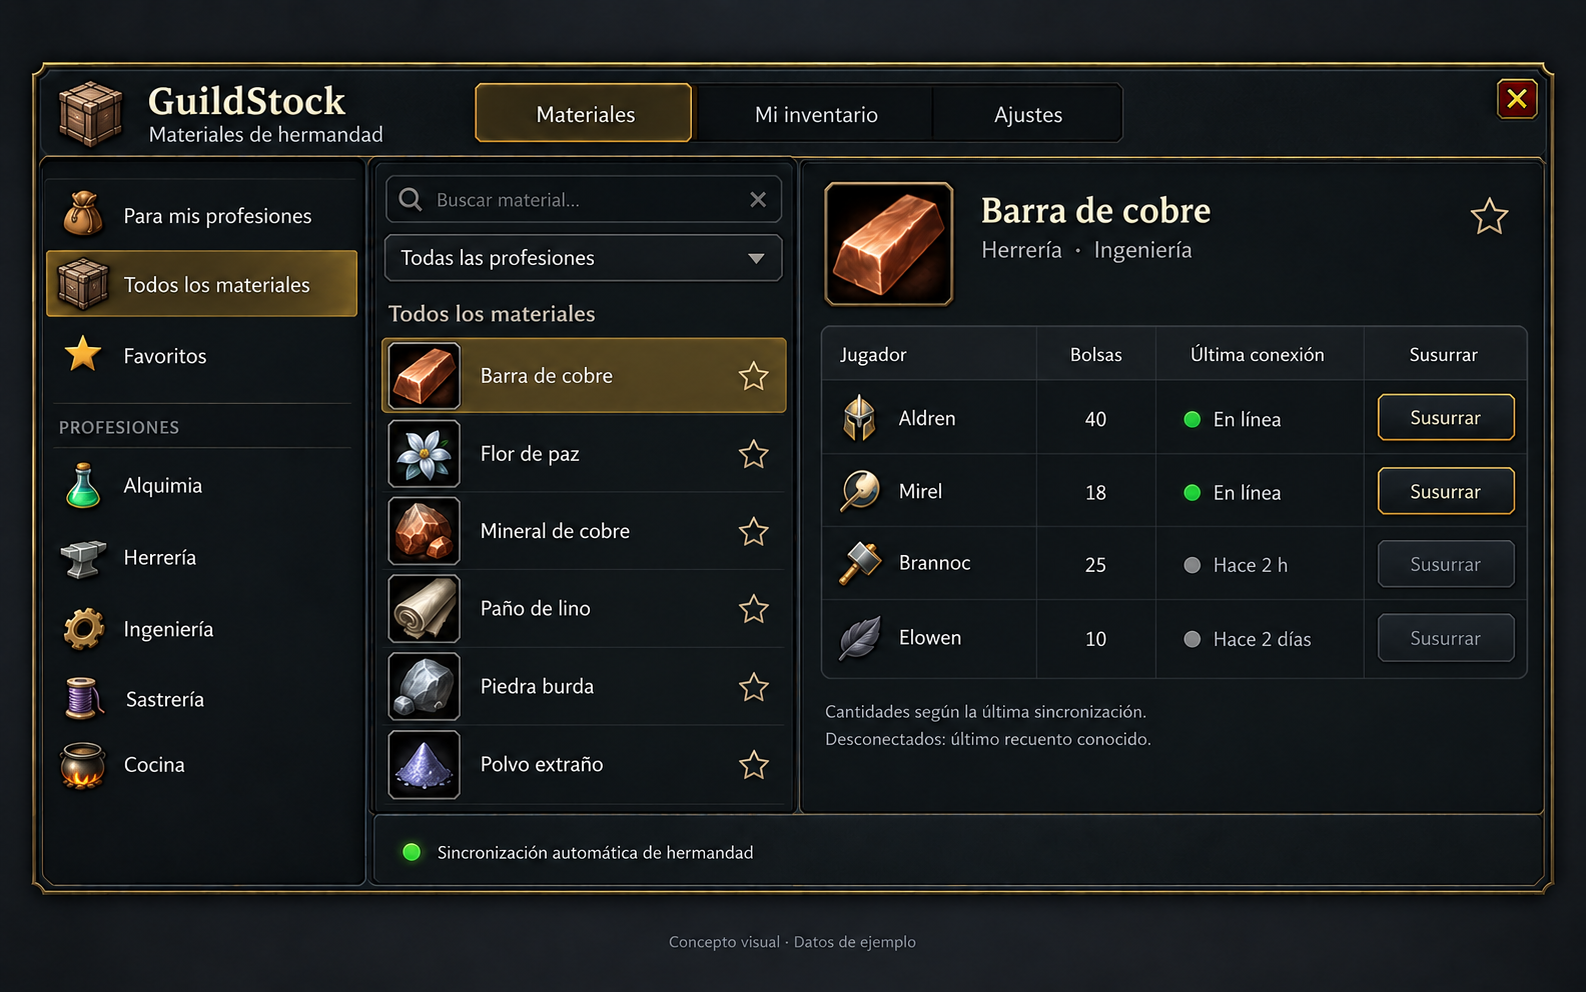
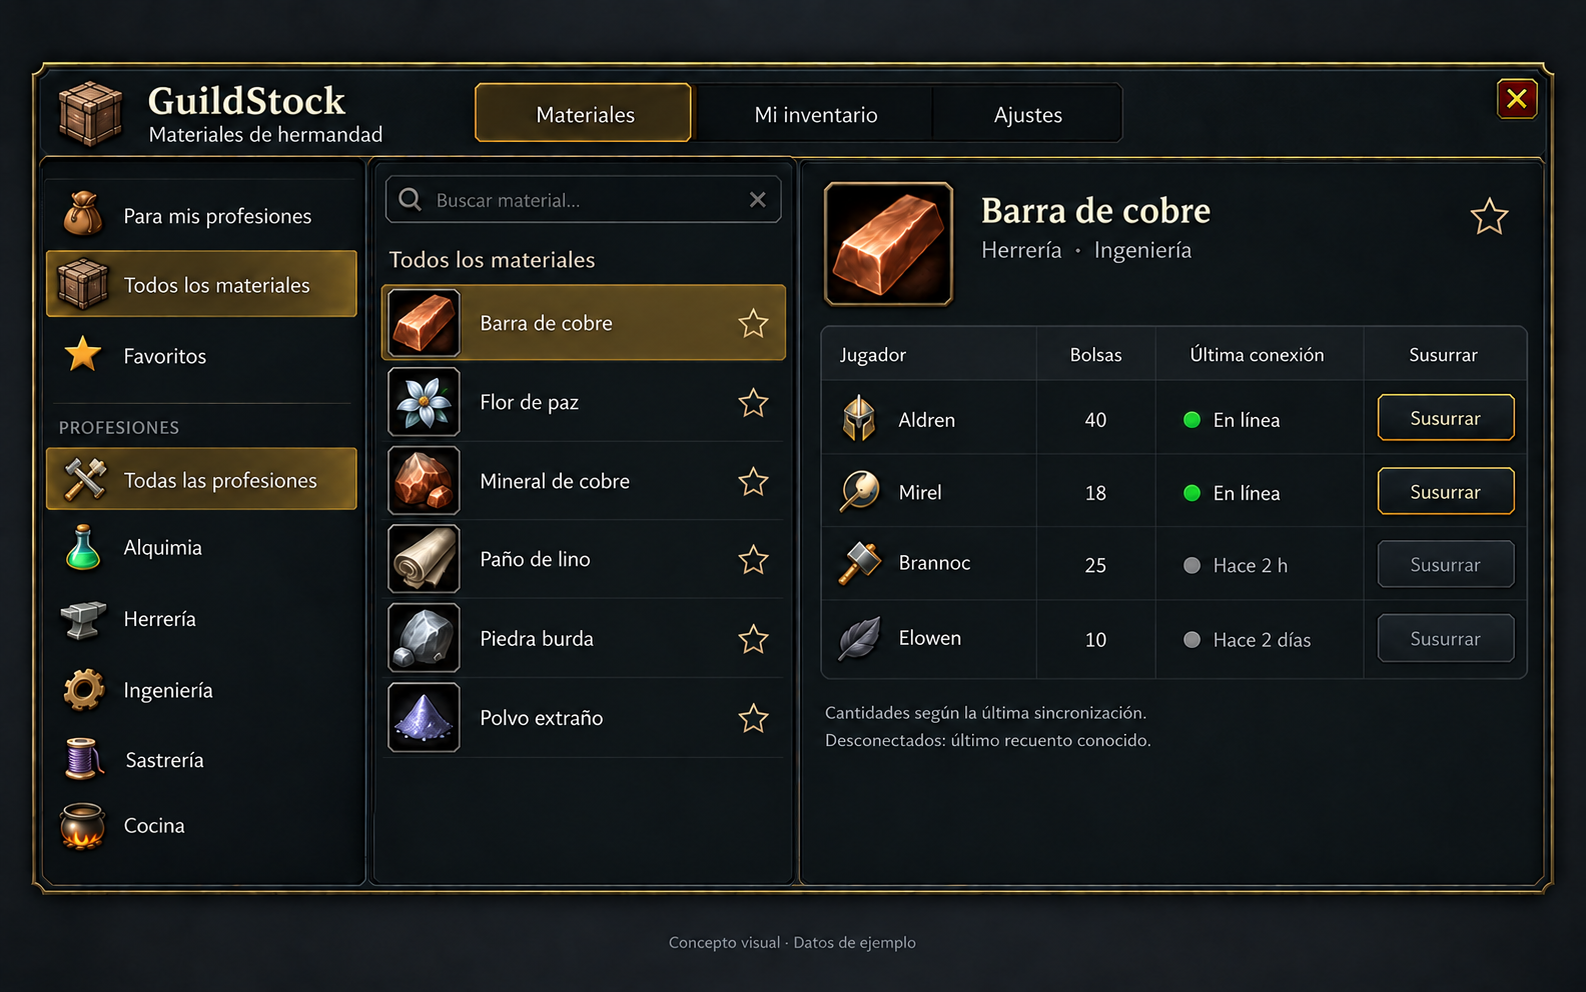
Refine guild catalog navigation and departed member cleanup plan

diff --git a/docs/GUILD_MATERIALS_PLAN.md b/docs/GUILD_MATERIALS_PLAN.md
@@ -8,11 +8,13 @@ The user selected bags only, automatic synchronization between guild members, an
 
 One movable window, opened through a minimap button or slash command, with three tabs: Materials, My inventory, and Settings. English is the implementation's base language; Spanish belongs in locale tables. The concept images show the Spanish translation and fictional sample data.
 
-- The left navigation offers For my professions, All materials, Favorites, and profession filters. Materials used by several professions appear under each relevant filter without duplicating inventory.
-- Search matches localized material names across the catalog. An active profession filter remains visible and easy to clear. A material stays searchable even when no participant reports stock.
+- The left navigation offers For my professions, All materials, and Favorites. Its Professions section begins with All professions (Spanish: Todas las profesiones), followed by the individual profession icons. This is the only profession filter; there is no duplicate dropdown above the material list. Opening All materials selects All professions. Materials used by several professions appear under each relevant filter without duplicating inventory.
+- Search matches localized material names across the complete Forever profession-material catalog, independently of guild stock. Clear a profession filter using All professions in the sidebar. Materials remain visible and searchable even when no participant reports stock.
+- Selecting a material with no matching guild inventory leaves the player table empty, retaining its column headings and showing No guildmates have this material, qualified by According to synchronized data (Spanish: No hay compañeros con este material. / Según los datos sincronizados.). Do not fabricate zero-quantity character rows or hide the material from the catalog. Before inventory data arrives, show Waiting for guild data instead. If an offline-display filter hides all matching owners, explain that no owners match the active display filter rather than claiming no guildmate has stock.
 - The middle list shows material icons and names. Selecting one displays one row per character with positive known exchangeable stock. The exact columns are Player, Bags, Last online, and Whisper (Spanish: Jugador, Bolsas, Última conexión, Susurrar). Online rows come first; offline rows remain in the same table with muted styling and their last known bag counts.
 - Last online shows Online for connected characters and the last known connection age for offline characters. Resolve that information from permitted guild-roster data and observed presence transitions; if unavailable, show Unknown rather than inventing a time. Last online is distinct from inventory observation age, which belongs in the quantity tooltip. Use zero only for a successful complete inventory observation; missing data never means zero.
 - Every character row contains its own Whisper button. It opens a draft addressed to that row’s character, with the material link; the player sends it. Disable the button for offline or unconfirmed connection states, explain why in a tooltip, and recheck connection state when clicked. There is no shared Whisper action beneath the table. There are no automatic orders, reservations, payments, or trades in the initial scope.
+- No screen shows a synchronization label, indicator, or control in the footer. Automatic synchronization continues in the background; its informational status belongs only inside Settings.
 - My inventory is a read-only view of profession materials in the player’s bags. Synchronization runs automatically while the addon is enabled and the character belongs to the guild, subject to client restrictions. There are no publish, offer, pause-publication, or manual synchronization buttons.
 - Settings use the full content width beneath the top tabs, without the material/profession sidebar. They are limited to showing offline members, minimap-button visibility, the initial view, and window scale. Show synchronization as a read-only status and save settings automatically. These presentation choices do not switch inventory synchronization on or off.
 
@@ -22,7 +24,7 @@ For my professions means materials used by the player's learned professions. It 
 
 These images explore appearance and layout, not tested game functionality. Material names, quantities, timing, and characters are illustrative; their presence does not certify Forever catalog coverage. Use the player's guild emblem or a neutral materials icon in production, rather than a fixed faction crest.
 
-Created with the built-in image generation tool. The [current prompt set](guild-materials/prompts-v2.json) is retained with the three updated concepts.
+Created with the built-in image generation tool. The [current prompt set](guild-materials/prompts-v3.json) covers the revised screens and the empty-owner state. Earlier generation prompts remain in the repository as design history.
 
 ![All materials with automatic bag synchronization](guild-materials/all-materials.png)
 
@@ -30,11 +32,13 @@ Created with the built-in image generation tool. The [current prompt set](guild-
 
 ![Display settings and automatic synchronization status](guild-materials/settings.png)
 
+![A catalog material with no matching guild inventory](guild-materials/material-empty.png)
+
 The earlier [material browser](guild-materials/material-browser.png), [own inventory](guild-materials/my-inventory.png), and [original prompts](guild-materials/prompts.json) are superseded historical drafts. Their bank columns, shared Whisper action, and publication controls are not part of the current design. The new All materials screen defines the revised row layout for every material view, including For my professions.
 
 ## Scope and inventory meaning
 
-The catalog target is every profession material available in the supported Forever build, including materials held by nobody in the guild. It needs item IDs, material categories, and a many-to-many relationship to consuming professions. Names and icons should come from client item data, with asynchronous loading and an item-ID placeholder while loading.
+The catalog must contain every profession material available in the supported Forever build, including materials held by nobody in the guild. Catalog membership never depends on the contents of synchronized inventories. It needs item IDs, material categories, and a many-to-many relationship to consuming professions. Names and icons should come from client item data, with asynchronous loading and an item-ID placeholder while loading.
 
 Reading inventories or the local character's recipes alone does not establish catalog completeness. First identify a usable matching-build dataset and its redistribution terms, then audit against the client's professions and recipes. Record source revision and coverage. A prototype may use a clearly labeled subset; a release must not advertise all materials until coverage has been verified. Do not import a Retail or Classic material list without checking every included mapping against Forever.
 
@@ -56,15 +60,18 @@ Proposed timing, subject to user preference and measurements:
 | Bag changes | Coalesce `BAG_UPDATE_DELAYED` bursts and rescan affected readable containers | Send final absolute counts for changed item IDs, at most one change batch every 10–15 seconds; continuous activity must not postpone forever |
 | Every five minutes | Check current state | Send a small presence/session/revision heartbeat with random timing; request a snapshot only on mismatch |
 | Window opening | Render cache immediately | Automatically request stale or missing records, subject to a 30 second request cooldown |
-| Leaving or changing guild | Stop old-guild synchronization and hide old-guild records | Cancel queued old-guild packets; begin discovery only when new membership is established |
+| Confirmed guild roster change | Delete departed members from the local guild database, including their cached inventory and presence records | Cancel their pending requests/transfers and reject subsequent packets unless membership is verified again |
+| Leaving or changing guild | Stop old-guild synchronization and delete the old guild’s peer records | Cancel queued old-guild packets; begin discovery only when new membership is established |
 
 These are proposed product timings, not Blizzard rate limits. Queue packets under a conservative measured byte budget, handle throttle/lockdown results with bounded retry, and stagger responses when several people log in together. Do not broadcast full inventories every five minutes or send every search keystroke to the guild.
 
-Treat heartbeat presence, guild online status, and data freshness as separate facts. Proposed policy: after two missed five-minute heartbeats, mark addon participation unconfirmed, even if the roster says online. Retain historical observations for seven days, visibly dated and excluded from current-stock totals. Hide confirmed former members immediately. A new client cannot recover an offline character's history it never received: the first version has no server and peers report only their own inventory.
+Treat heartbeat presence, guild online status, and data freshness as separate facts. Proposed policy: after two missed five-minute heartbeats, mark addon participation unconfirmed, even if the roster says online. Retain historical observations of current guild members for seven days, visibly dated and excluded from current-stock totals. Delete confirmed former members immediately from the local guild database, rather than merely hiding their rows or waiting for history expiry. A new client cannot recover an offline character's history it never received: the first version has no server and peers report only their own inventory.
 
 ## Data and protocol
 
 Keep one independent addon folder and SavedVariables namespace. A minimal initial layout is the manifest, locale table, catalog table, core inventory/communication logic, UI, and a small Lua test file. Split further only when an actual implementation needs it. Reuse the repository's minimap and locale conventions without extracting a shared dependency.
+
+Reconcile saved peer records against a complete, authoritative current guild roster after login and whenever membership changes. Remove confirmed departed members from saved and in-memory inventory, presence, session/revision state, indexes, and pending transfers. Late packets must not recreate them. An offline player is still a member; a missing heartbeat or an unavailable, partial, or temporarily empty roster is not evidence of departure. Wait for verified membership data before pruning and before accepting unknown senders. The precise roster completeness signal must be verified during the API feasibility test. On confirmed guild departure/change by the local character, purge the old guild’s peer cache while preserving the catalog, own bag snapshot, favorites, and UI preferences.
 
 Store schema version, user preferences, own validated snapshots, and guild-scoped peer observations. Each inventory observation has material item ID, bag count, and observation timestamp. Store guild presence and last known connection time separately; neither receiving a packet nor reading a cached inventory establishes a precise last logout time. Resolve the guild identity and character addressing using verified Forever APIs; do not assume surname equals realm. Do not publish local diagnostics containing real player lists or identifiers.
 
@@ -78,14 +85,14 @@ On initialization, validate saved tables without overwriting valid data. Preserv
 
 ## Implementation stages and completion checks
 
-1. **Prove the APIs in build 70205.** Record `GetBuildInfo()`, restriction state, prefix result, sending results, and actual round-trip receipt for two guild clients. Verify surname/addressing, roster membership, connection status, and availability of last-online information. Verify bound-item visibility and profession enumeration. Completion: documented two-client communication plus correct bag sample counts; if transport fails, stop the network implementation and revisit feasibility.
-2. **Establish the catalog and local inventory.** Source and audit the full build-specific material set and profession relationships. Implement complete bag snapshots, asynchronous item names, and persistence validation. Completion: a material held by nobody remains searchable; looting, trading, crafting, selling, moving items out of bags, and reaching zero give correct counts; an incomplete bag scan preserves the last valid observation. Keep a small runnable Lua check for these state transitions.
-3. **Implement synchronization.** Build registration, discovery, bounded packet queue, full snapshot/absolute changes, revision repair, presence, and guild isolation. Completion: two clients converge after changes and reconnects. Offline tests cover duplicate/reordered/missing packets, explicit zero, incomplete snapshots, bad input, guild changes, and throttle/lockdown behavior. These tests do not replace real delivery tests.
-4. **Build the agreed interface.** Add the material browser, search, profession filter, favorites, player rows, own inventory, and compact settings. Use native frames and item icons with modern restrained styling. Completion: long localized names, empty results, missing bag data, offline history, and large lists remain readable; every row has its own Whisper action, disabled immediately when its character goes offline; keyboard focus, Escape, dragging, scrolling, and UI scale work in-game. Whisper only prepares a draft.
+1. **Prove the APIs in build 70205.** Record `GetBuildInfo()`, restriction state, prefix result, sending results, and actual round-trip receipt for two guild clients. Verify surname/addressing, roster membership and completeness, connection status, and availability of last-online information. Verify bound-item visibility and profession enumeration. Completion: documented two-client communication plus correct bag sample counts; if transport fails, stop the network implementation and revisit feasibility.
+2. **Establish the catalog and local inventory.** Source and audit the full build-specific material set and profession relationships. Implement complete bag snapshots, asynchronous item names, and persistence validation. Completion: all verified Forever profession materials are in the catalog, including those with no synchronized owners; a material held by nobody remains searchable; looting, trading, crafting, selling, moving items out of bags, and reaching zero give correct counts; an incomplete bag scan preserves the last valid observation. Keep a small runnable Lua check for these state transitions.
+3. **Implement synchronization.** Build registration, discovery, bounded packet queue, full snapshot/absolute changes, revision repair, presence, and guild isolation. Completion: two clients converge after changes and reconnects. Offline tests cover duplicate/reordered/missing packets, explicit zero, incomplete snapshots, bad input, guild changes, and throttle/lockdown behavior. Check that a confirmed departure deletes saved records, survives reload, and cannot be undone by a late packet; an offline member or incomplete roster must not trigger deletion. These tests do not replace real delivery tests.
+4. **Build the agreed interface.** Add the material browser, search, profession filter, favorites, player rows, own inventory, and compact settings. Use native frames and item icons with modern restrained styling. Completion: All professions is the first sidebar profession option, no duplicate dropdown or synchronization footer remains, and empty owner tables show the explanatory notice without removing catalog entries; long localized names, empty search results, missing bag data, offline history, and large lists remain readable; every row has its own Whisper action, disabled immediately when its character goes offline; keyboard focus, Escape, dragging, scrolling, and UI scale work in-game. Whisper only prepares a draft.
 5. **Pilot and release.** Test with several consenting guild participants, then a larger group for traffic and responsiveness. Check simultaneous logins, disconnects, absent addon users, mixed protocol versions, combat, and no-guild state. Run Lua syntax and repository regression checks, verify reload/full restart persistence, and record build-specific results in the API log. Publish reviewed files to GitHub. Prepare a CurseForge release only when requested, using the repository publishing skill.
 
 ## Decisions still open
 
-Confirmed: bags only, automatic guild synchronization without publications, and a Whisper button on every character row, disabled when offline. Offline character rows and Last online are part of the requested design. The working name, final visual adjustments, timing policy, historical retention period, exchangeable-only filtering, and profession relevance rules remain open. Seven-day retention is a proposal, not a confirmed requirement.
+Confirmed: bags only, automatic guild synchronization without publications or a footer indicator, the complete Forever profession-material catalog with an empty-owner notice, deletion of departed guild members from the local database, All professions as the first sidebar profession filter without a duplicate dropdown, and a Whisper button on every character row, disabled when offline. Offline character rows and Last online are part of the requested design. The working name, final visual adjustments, timing policy, historical retention period, exchangeable-only filtering, and profession relevance rules remain open. Seven-day retention is a proposal, not a confirmed requirement.
 
 Bank support, pricing, purchase orders, reservations, automatic transactions, and exact recipe shortage calculations can be added when the guild has a concrete need. They are not required to answer the first useful question: who has this material, how much was observed, and how old is that information?
